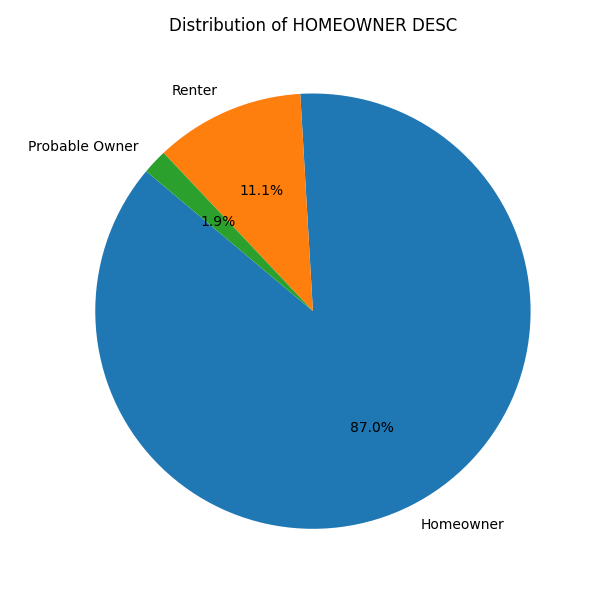
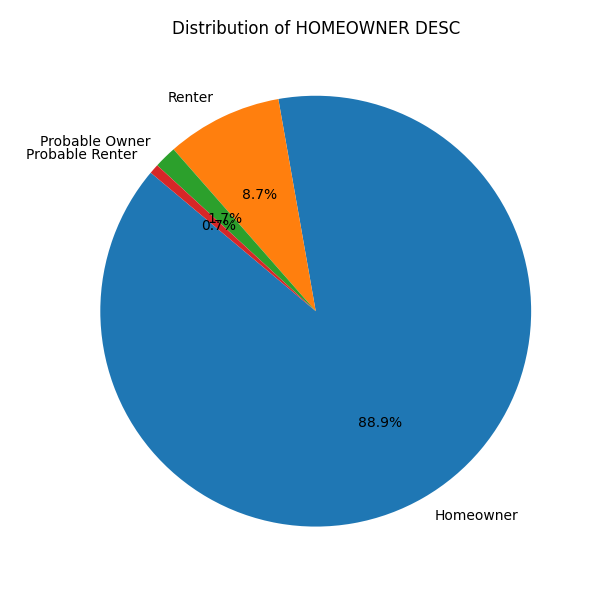
Add aggregate visualisation metrics

diff --git a/src/customer_analysis.py b/src/customer_analysis.py
@@ -5,10 +5,10 @@
 import os
 import pandas as pd
 import matplotlib
-matplotlib.use("Agg")  # Prevent Tkinter backend errors
+matplotlib.use("Agg") 
 import matplotlib.pyplot as plt
 
-from src.utils.log_util import init_log, log
+from src.utils.log_util import log
 
 # --------------------------------------------------
 # Paths
@@ -18,7 +18,7 @@ PROJECT_ROOT = os.path.abspath(os.getcwd())
 PROCESSED_DATA_DIR = os.path.join(PROJECT_ROOT, "data", "customer_segmentation")
 CLEANED_DATA_DIR = os.path.join(PROCESSED_DATA_DIR, "cleaned")
 FIGURES_DIR = os.path.join(PROCESSED_DATA_DIR, "figures")
-
+AGG_FIGURES_DIR = os.path.join(FIGURES_DIR, "agg_metrics")
 os.makedirs(CLEANED_DATA_DIR, exist_ok=True)
 os.makedirs(FIGURES_DIR, exist_ok=True)
 
@@ -76,7 +76,7 @@ def merge_datasets(transactions: pd.DataFrame,
 
 def clean_demographics(df: pd.DataFrame) -> pd.DataFrame:
     critical_cols = ['MARITAL_STATUS_CODE', 'INCOME_DESC']
-    missing_values = ["Unknown", "None", "NONE", "None/Unknown", "", "NaN"]
+    missing_values = ["Unknown", ""]
 
     initial_rows = df.shape[0]
     mask_missing = df[critical_cols].apply(
@@ -118,6 +118,10 @@ def aggregate_households(df: pd.DataFrame) -> pd.DataFrame:
 
 # --------------------------------------------------
 # Merge Aggregated Data with Demographics
+# NOTE:
+    # - KID_CATEGORY_DESC is intentionally *not* treated as a required field.
+    #   Values like "None" or "Unknown" in this column do not necessarily indicate 
+    #   missing data.
 # --------------------------------------------------
 
 def merge_household_demographics(agg: pd.DataFrame, df: pd.DataFrame) -> pd.DataFrame:
@@ -127,8 +131,16 @@ def merge_household_demographics(agg: pd.DataFrame, df: pd.DataFrame) -> pd.Data
     ]
     merged = agg.merge(df[demo_cols].drop_duplicates(), on="household_key", how="left")
 
-    missing_values = ["Unknown", "NULL", "nan", "None", "NA", "Not Available", " "]
-    mask_missing = merged[demo_cols[1:]].apply(
+    missing_values = ["Unknown", "NULL", "nan", "NA", "Not Available", " "]
+    required_cols = [
+        "AGE_DESC",
+        "MARITAL_STATUS_CODE",
+        "INCOME_DESC",
+        "HOMEOWNER_DESC", 
+        "HOUSEHOLD_SIZE_DESC"
+    ]
+
+    mask_missing = merged[required_cols].apply(
         lambda col: col.isna() | col.astype(str).str.strip().isin(missing_values)
     ).any(axis=1)
 
@@ -139,7 +151,7 @@ def merge_household_demographics(agg: pd.DataFrame, df: pd.DataFrame) -> pd.Data
     return merged
 
 # --------------------------------------------------
-# Generate Pie Charts
+# Generate Charts
 # --------------------------------------------------
 
 def generate_demographic_piecharts(df: pd.DataFrame, output_dir: str = FIGURES_DIR):
@@ -154,10 +166,48 @@ def generate_demographic_piecharts(df: pd.DataFrame, output_dir: str = FIGURES_D
         plt.pie(counts.values, labels=counts.index, autopct='%1.1f%%', startangle=140)
         plt.title(f"Distribution of {col.replace('_', ' ')}", fontsize=12)
         plt.tight_layout()
-        outpath = os.path.join(output_dir, f"{col.lower()}_piechart.png")
+        filename=f"{col.lower()}_piechart.png"
+        outpath = os.path.join(output_dir, filename)
         plt.savefig(outpath)
         plt.close()
-        log(f"Saved pie chart: {outpath}")
+        log(f"Saved pie chart: {filename}")
+
+def generate_aggregate_visuals(df):
+    plot_metric_vs_category(df, "total_spent", "INCOME_DESC")
+    plot_metric_vs_category(df, "total_spent", "AGE_DESC")
+    plot_metric_vs_category(df, "num_transactions", "INCOME_DESC")
+    plot_metric_vs_category(df, "num_transactions", "AGE_DESC")
+
+def plot_metric_vs_category(df, metric, category, output_dir=AGG_FIGURES_DIR):
+    os.makedirs(output_dir, exist_ok=True)
+
+    if metric not in df.columns or category not in df.columns:
+        print(f"Missing required column: {metric} or {category}")
+        return
+
+    df_clean = df.dropna(subset=[category, metric])
+
+    summary = (
+        df_clean.groupby(category)[metric]
+        .mean()
+        .sort_index()
+    )
+
+    plt.figure(figsize=(8,5))
+    plt.bar(summary.index, summary.values)
+
+    plt.xticks(rotation=45, ha="right")
+    plt.xlabel(category.replace("_", " ").title())
+    plt.ylabel(metric.replace("_", " ").title())
+    plt.title(f"{metric.replace('_',' ').title()} by {category.replace('_',' ').title()}")
+
+    plt.tight_layout()
+
+    filename = f"{metric}_vs_{category}.png".replace(" ", "_").lower()
+    plt.savefig(os.path.join(output_dir, filename))
+    plt.close()
+
+    log(f"Saved aggregated metric chart: {filename}")
 
 # --------------------------------------------------
 # End-to-End Pipeline
@@ -165,7 +215,6 @@ def generate_demographic_piecharts(df: pd.DataFrame, output_dir: str = FIGURES_D
 
 def run_customer_analysis():
     log("=== Customer Analysis Pipeline Started ===")
-    # init_log(os.path.join(PROJECT_ROOT, "logs"), prefix="workflow")
 
     datasets = load_cleaned_datasets(CLEANED_DATA_DIR)
     merged = merge_datasets(datasets["transactions"], datasets["products"], datasets["demographics"])
@@ -173,6 +222,7 @@ def run_customer_analysis():
     agg = aggregate_households(cleaned)
     final = merge_household_demographics(agg, cleaned)
     generate_demographic_piecharts(final)
-
+    generate_aggregate_visuals(final)
+    
     log("=== Customer Analysis Pipeline Completed ===")
     return final

diff --git a/src/customer_workflow.py b/src/customer_workflow.py
@@ -10,8 +10,6 @@ def run_full_customer_workflow(project_root: str) -> None:
     2. Run customer segmentation analysis
     """
     raw_data_path = os.path.join(project_root, "data", "raw")
-    # segmentation_output_path = os.path.join(project_root, "data", "customer_segmentation")
-    # os.makedirs(segmentation_output_path, exist_ok=True)
 
     # Initialize workflow-level log
     log_dir = os.path.join(project_root, "logs")

diff --git a/src/data_cleaning.py b/src/data_cleaning.py
@@ -6,7 +6,7 @@ from src.utils.log_util import init_log, log
 # Global constants
 # -------------------------------------------
 
-MISSING_VALUES = ["Unknown", "None", "NONE", "None/Unknown", "", "U", "NaN"]
+MISSING_VALUES = ["Unknown", "", "U", "NaN"]
 
 FILES = [
     "campaign_desc.csv", "campaign_table.csv", "coupon.csv",

diff --git a/README.md b/README.md
@@ -35,6 +35,9 @@ View the [workflow provenance](./docs/workflow_provenance.md) for a detailed ove
 - Obtain raw data: Dunnhumby — The Complete Journey (Kaggle)
 - Place raw CSVs in `data/raw/` (filenames: transaction_data.csv, hh_demographic.csv, product.csv, coupon.csv, etc.)
 
+#### Data use and ethics
+Data were obtained from Kaggle (Dunnhumby — The Complete Journey). We do not redistribute raw files. Household IDs are anonymized; no PII is present. Use of the data follows Kaggle's terms of service and any downstream redistribution is restricted.
+
 ### Run pipeline
 `python3 -m src.customer_workflow`
 
